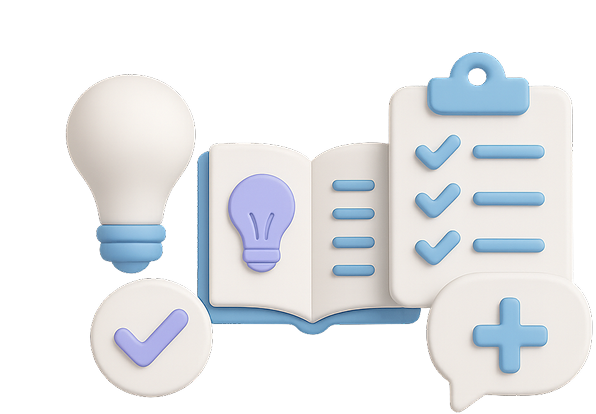
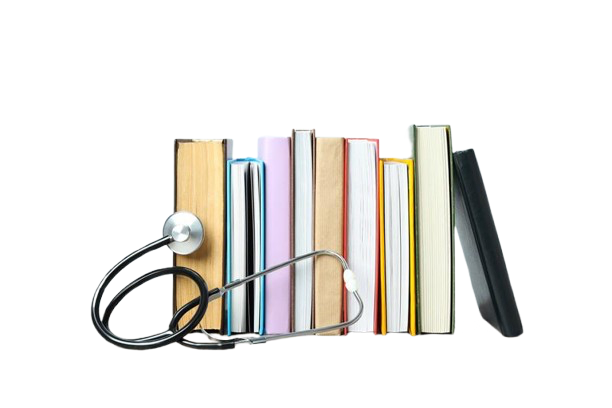
Surgeons and blog header picture changed and testimonials added

diff --git a/src/components/surgeonsPage/Hero.js b/src/components/surgeonsPage/Hero.js
@@ -21,26 +21,33 @@ export const HeroSection = ({ onSearchResults, onSearchStateChange }) => {
   const [searchForm, setSearchForm] = useState({
     name: "",
     subspecialty: "",
-    location: ""
+    location: "",
   });
   const [isSearching, setIsSearching] = useState(false);
   const [hasSearched, setHasSearched] = useState(false);
 
-  const subspecialities = useMemo(() => [
-    { value: "UPPER_LIMB", label: "Upper Limb" },
-    { value: "LOWER_LIMB", label: "Lower Limb" },
-    { value: "SPINE", label: "Spine" },
-    { value: "PEDIATRICS", label: "Paediatrics" },
-    { value: "ONCOLOGY", label: "Oncology" },
-    { value: "TRAUMA", label: "Trauma" },
-    { value: "SPORTS", label: "Sports" },
-    { value: "ARTHROPLASTY", label: "Arthroplasty" },
-  ], []);
+  const subspecialities = useMemo(
+    () => [
+      { value: "UPPER_LIMB", label: "Upper Limb" },
+      { value: "LOWER_LIMB", label: "Lower Limb" },
+      { value: "SPINE", label: "Spine" },
+      { value: "PEDIATRICS", label: "Paediatrics" },
+      { value: "ONCOLOGY", label: "Oncology" },
+      { value: "TRAUMA", label: "Trauma" },
+      { value: "SPORTS", label: "Sports" },
+      { value: "ARTHROPLASTY", label: "Arthroplasty" },
+    ],
+    [],
+  );
 
-  const locationOptions = useMemo(() => auCities.map((city) => ({
-    value: city.city,
-    label: city.city,
-  })), []);
+  const locationOptions = useMemo(
+    () =>
+      auCities.map((city) => ({
+        value: city.city,
+        label: city.city,
+      })),
+    [],
+  );
 
   const handleSearch = useCallback(async () => {
     setIsSearching(true);
@@ -58,24 +65,32 @@ export const HeroSection = ({ onSearchResults, onSearchStateChange }) => {
       // Filter by name if provided
       if (searchForm.name.trim()) {
         filteredDoctors = filteredDoctors.filter((doctor) => {
-          const doctorName = doctor.name?.toLowerCase() || '';
+          const doctorName = doctor.name?.toLowerCase() || "";
           const searchTerm = searchForm.name.toLowerCase();
-          return  doctorName.includes(searchTerm);
+          return doctorName.includes(searchTerm);
         });
       }
 
       // Filter by subspecialty if provided
       if (searchForm.subspecialty.trim()) {
         filteredDoctors = filteredDoctors.filter((doctor) => {
-          if (!doctor.subspecialities || !Array.isArray(doctor.subspecialities)) {
+          if (
+            !doctor.subspecialities ||
+            !Array.isArray(doctor.subspecialities)
+          ) {
             return false;
           }
-          return doctor.subspecialities.some((subspecialty) =>
-            subspecialty.toLowerCase().includes(searchForm.subspecialty.toLowerCase()) ||
-            subspecialities.find(sub => 
-              sub.value.toLowerCase() === searchForm.subspecialty.toLowerCase() &&
-              subspecialty.toLowerCase().includes(sub.label.toLowerCase())
-            )
+          return doctor.subspecialities.some(
+            (subspecialty) =>
+              subspecialty
+                .toLowerCase()
+                .includes(searchForm.subspecialty.toLowerCase()) ||
+              subspecialities.find(
+                (sub) =>
+                  sub.value.toLowerCase() ===
+                    searchForm.subspecialty.toLowerCase() &&
+                  subspecialty.toLowerCase().includes(sub.label.toLowerCase()),
+              ),
           );
         });
       }
@@ -83,7 +98,9 @@ export const HeroSection = ({ onSearchResults, onSearchStateChange }) => {
       // Filter by location if provided
       if (searchForm.location.trim()) {
         filteredDoctors = filteredDoctors.filter((doctor) =>
-          doctor.location?.toLowerCase().includes(searchForm.location.toLowerCase())
+          doctor.location
+            ?.toLowerCase()
+            .includes(searchForm.location.toLowerCase()),
         );
       }
 
@@ -103,7 +120,7 @@ export const HeroSection = ({ onSearchResults, onSearchStateChange }) => {
     setSearchForm({
       name: "",
       subspecialty: "",
-      location: ""
+      location: "",
     });
     setHasSearched(false);
     onSearchResults(null); // null indicates show all doctors
@@ -120,7 +137,7 @@ export const HeroSection = ({ onSearchResults, onSearchStateChange }) => {
             <div className="bg-primary-foreground mx-auto h-[2px] w-full" />
           </div>
           <h1 className="font-syne mb-4">
-          Find the Right Orthopedic Specialist
+            Find the Right Orthopedic Specialist
           </h1>
           <div className="hidden h-[352px] w-full max-w-[308px] max-lg:mx-auto max-lg:flex max-lg:justify-center">
             <Image
@@ -134,18 +151,19 @@ export const HeroSection = ({ onSearchResults, onSearchStateChange }) => {
             />
           </div>
           <p className="mb-4">
-          Get online or in-person consultations. Choose the best doctor based on ratings, experience, and detailed profiles.Expert care is just a click away.
+            Review and choose the best doctor based on ratings, experience, and
+            detailed profiles. Expert care is just a click away.
           </p>
           <div className="mb-4 flex flex-wrap gap-4">
             <Link href="#all_surgeons">
-            <Button variant={"primaryForeground"} size={"primaryForeground"}>
-              Find Your Doctor
-            </Button>
+              <Button variant={"primaryForeground"} size={"primaryForeground"}>
+                Find Your Doctor
+              </Button>
             </Link>
             <Link href="/contactUs">
-            <Button variant={"primaryForeground"} size={"primaryForeground"}>
-              Need Help?
-            </Button>
+              <Button variant={"primaryForeground"} size={"primaryForeground"}>
+                Need Help?
+              </Button>
             </Link>
           </div>
           <div className="flex flex-wrap items-center gap-4">
@@ -155,7 +173,7 @@ export const HeroSection = ({ onSearchResults, onSearchStateChange }) => {
               width={172}
               height={42}
               quality={100}
-              className="flex-shrink-0 w-[172px] h-[42px]"
+              className="h-[42px] w-[172px] flex-shrink-0"
             />
             <div>
               <p>More than 52k</p>
@@ -213,7 +231,11 @@ export const HeroSection = ({ onSearchResults, onSearchStateChange }) => {
             onClick={hasSearched ? handleClearSearch : handleSearch}
             disabled={isSearching}
           >
-            {isSearching ? "Searching..." : hasSearched ? "Clear Search" : "Search"}
+            {isSearching
+              ? "Searching..."
+              : hasSearched
+                ? "Clear Search"
+                : "Search"}
           </Button>
         </div>
       </div>

diff --git a/src/components/hero/Testimonials/TestimonialsSection.js b/src/components/hero/Testimonials/TestimonialsSection.js
@@ -12,51 +12,51 @@ export const TestimonialsSection = () => {
   const testimonials = [
     {
       id: 1,
-      text: "This is the best service I've ever used!",
-      name: "John Doe",
-      image: "/home/doctor-1.jpg",
-      stars: 3,
+      text: "I’ve had knee pain on and off for years from playing footy. This site helped me finally understand what might be going on and which specialists actually deal with sports injuries. Really clear info, very handy.",
+      name: "Liam Carter",
+      image: "/home/doctor-4.jpg",
+      stars: 5,
     },
     {
       id: 2,
-      text: "I was so impressed with the quality of the service!",
-      name: "Jane Doe",
-      image: "/home/doctor-2.jpg",
+      text: "Moving to Australia from Spain, it was hard to figure out the healthcare options here. The explanations on this site made it much easier to understand my shoulder issue and who the top surgeons are. Super useful for someone new to the system.",
+      name: "María González",
+      image: "/home/doctor-5.jpg",
       stars: 5,
     },
     {
       id: 3,
-      text: "I couldn't be happier with the results!",
-      name: "Bob Smith",
-      image: "/home/doctor-3.jpg",
+      text: "I was looking up information for my mum who’s been struggling with arthritis. The articles were easy to read and actually made sense, unlike most medical websites. We both felt more confident about what steps to take next.",
+      name: "Ayesha Khan",
+      image: "/home/doctor-6.jpg",
       stars: 4,
     },
     {
       id: 4,
-      text: "The staff was really friendly and helpful!",
-      name: "Alice Johnson",
-      image: "/home/doctor-2.jpg",
-      stars: 4,
-    },
-    {
-      id: 5,
-      text: "I was so impressed with the quality of the service!",
-      name: "Jane Doe",
-      image: "/home/doctor-2.jpg",
+      text: "I’m originally from Brazil and didn’t know much about orthopaedic specialists here. The surgeon profiles were detailed and helped me compare experience levels and specialties. Really glad I found this website.",
+      name: "Gabriel Santos",
+      image: "/home/doctor-7.jpg",
       stars: 5,
     },
     {
-      id: 6,
-      text: "I couldn't be happier with the results!",
-      name: "Bob Smith",
-      image: "/home/doctor-3.jpg",
+      id: 5,
+      text: "After a fall during hiking, I wanted to understand my ankle injury better. The recovery guides here were straightforward and actually practical. It helped me avoid unnecessary stress while waiting for my GP appointment.",
+      name: "Hannah O’Connor",
+      image: "/home/doctor-8.jpg",
       stars: 4,
+    },
+    {
+      id: 6,
+      text: "As someone from the Philippines, I love that this site keeps things simple and easy to follow. I used it to learn more about hip pain and it helped me understand what questions to ask at my next check-up.",
+      name: "Jerome Dela Cruz",
+      image: "/home/doctor-9.jpg",
+      stars: 5,
     },
   ];
 
   return (
     <section className="mb-40">
-      <div className="bg-primary flex flex-col items-center justify-center py-16 px-5">
+      <div className="bg-primary flex flex-col items-center justify-center px-5 py-16">
         <h1 className="font-syne text-primary-foreground">Testimonials</h1>
         <p className="text-primary-foreground mb-8 text-center">
           Hear from our satisfied patients and their experiences with our

diff --git a/src/components/hero/Testimonials/TestimonialCarousel.js b/src/components/hero/Testimonials/TestimonialCarousel.js
@@ -19,7 +19,7 @@ export function TestimonialCarousel({ testimonials }) {
         align: "start",
         loop: true,
       }}
-      className="w-full max-w-[1200px] flex justify-center items-center gap-5"
+      className="flex w-full max-w-[1200px] items-center justify-center gap-5"
     >
       <CarouselPrevious />
       <CarouselContent>
@@ -31,23 +31,25 @@ export function TestimonialCarousel({ testimonials }) {
               </div>
               <p className="mt-4 text-gray-700">{testimonial.text}</p>
               <div className="mt-4 flex items-center gap-4">
-                <div className="relative h-12 w-12">
+                {/* <div className="relative h-12 w-12">
                   <Image
                     src={testimonial.image || "/home/doctor-1.png"}
                     alt="Doctor"
                     fill
                     className="rounded-full object-cover object-top"
                   />
-                </div>
+                </div> */}
                 <div>
-                  <h3 className="text-lg font-semibold text-primary">{testimonial.name}</h3>
+                  <h3 className="text-primary text-lg font-semibold">
+                    {testimonial.name}
+                  </h3>
                 </div>
               </div>
             </div>
           </CarouselItem>
         ))}
       </CarouselContent>
-      
+
       <CarouselNext />
     </Carousel>
   );
